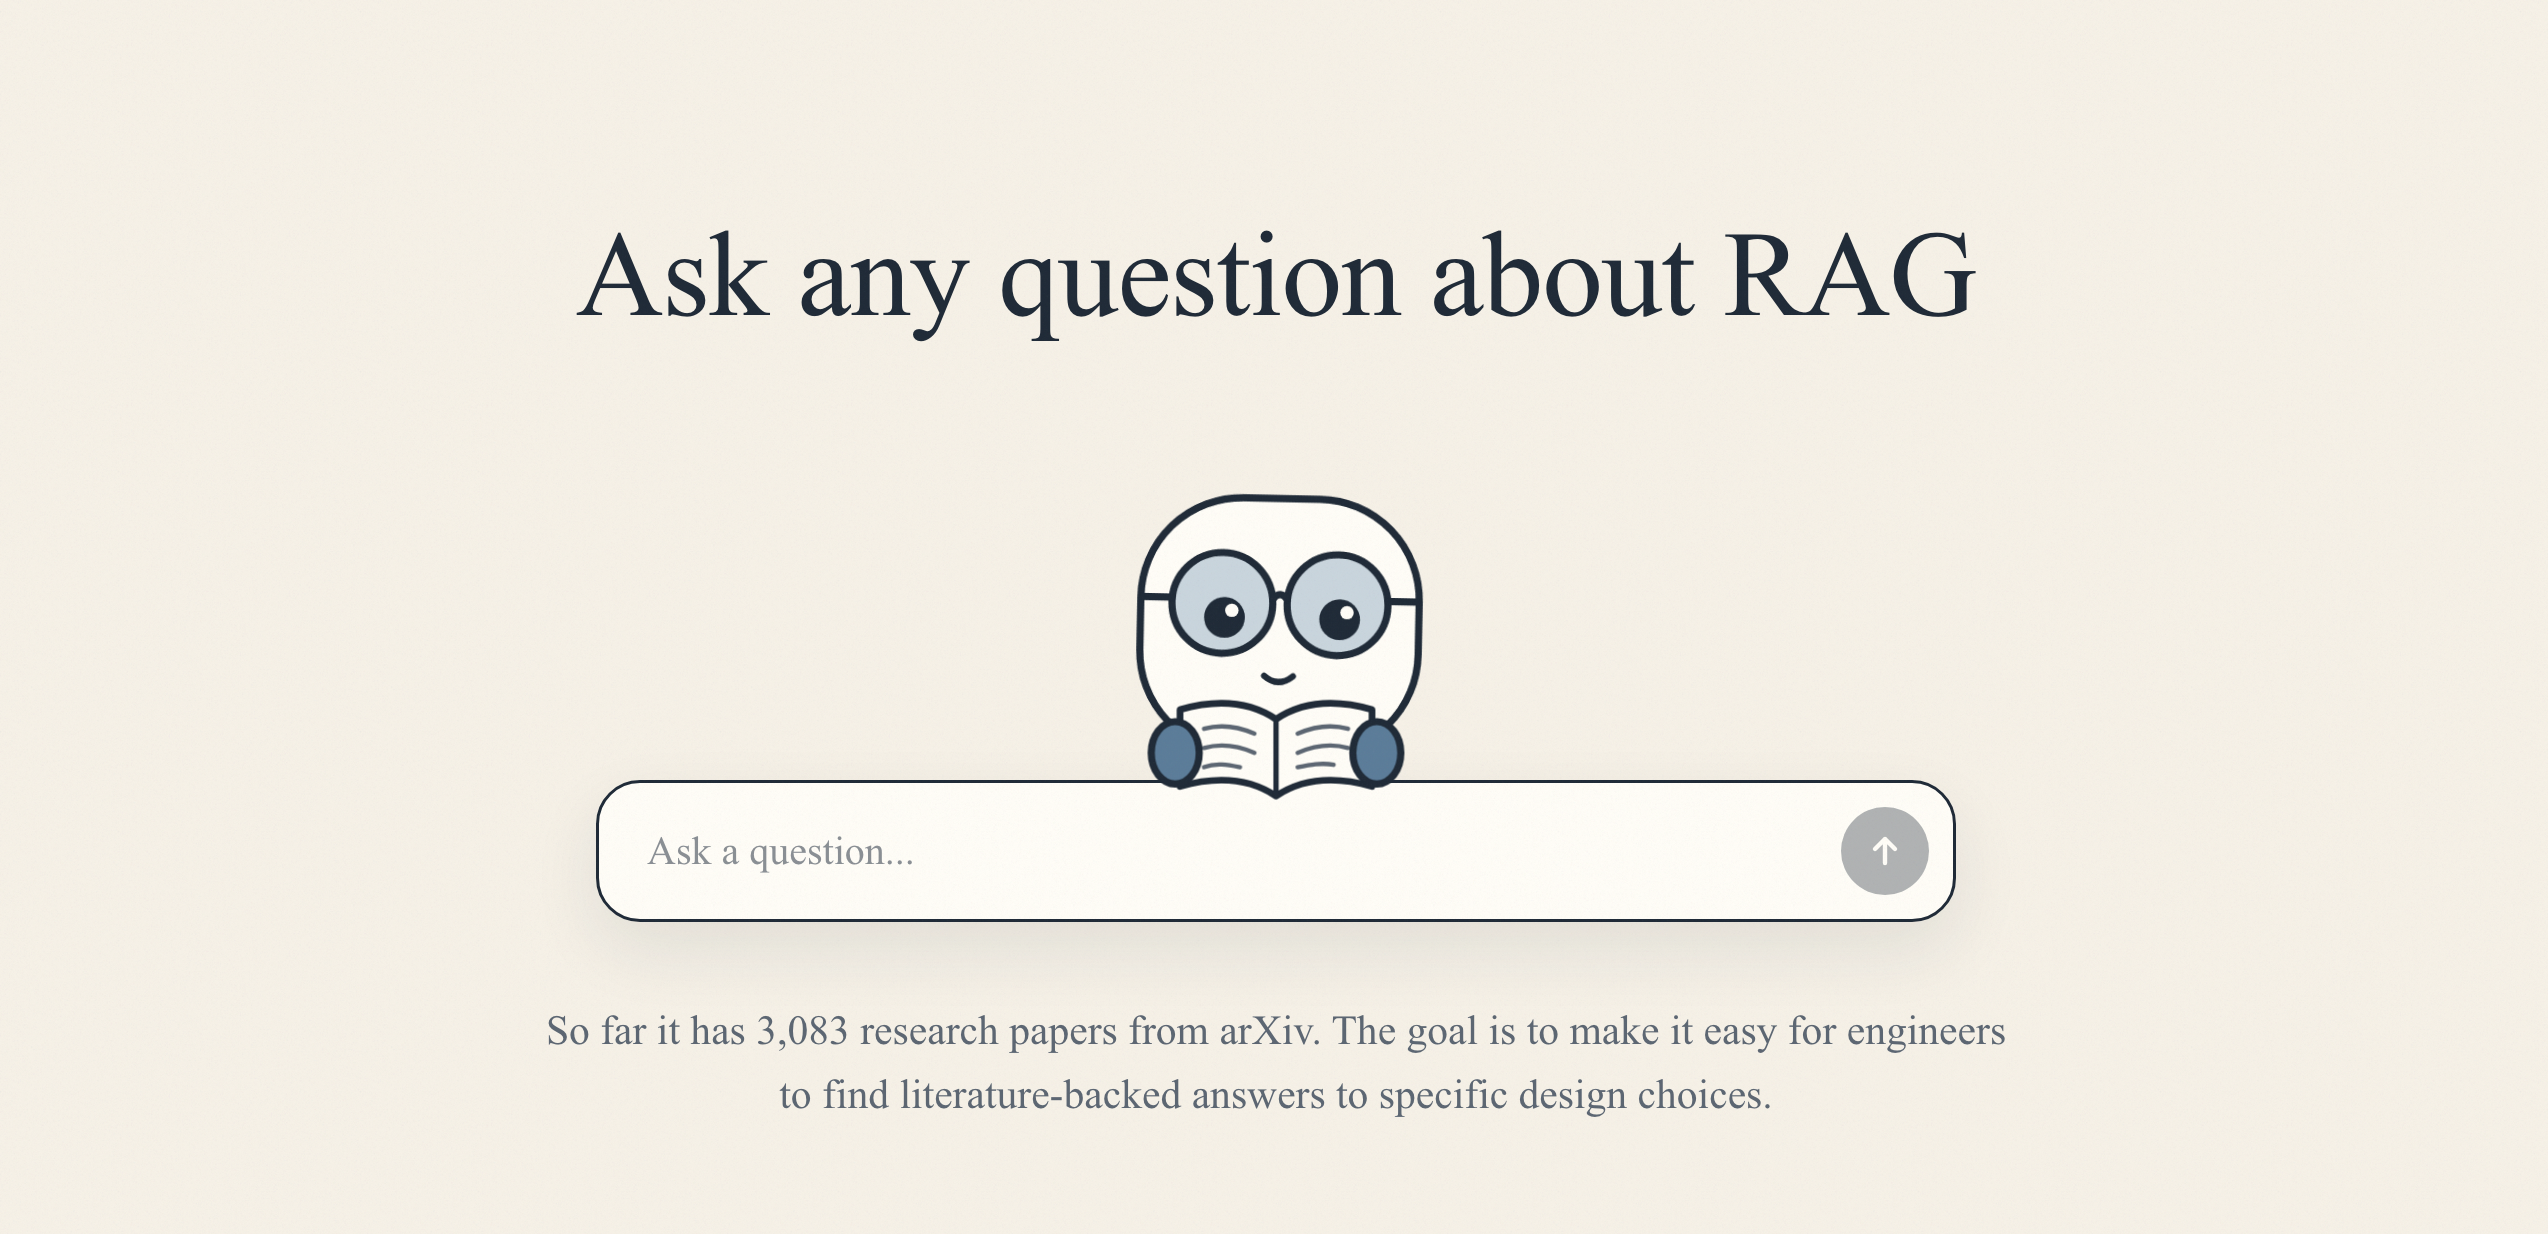
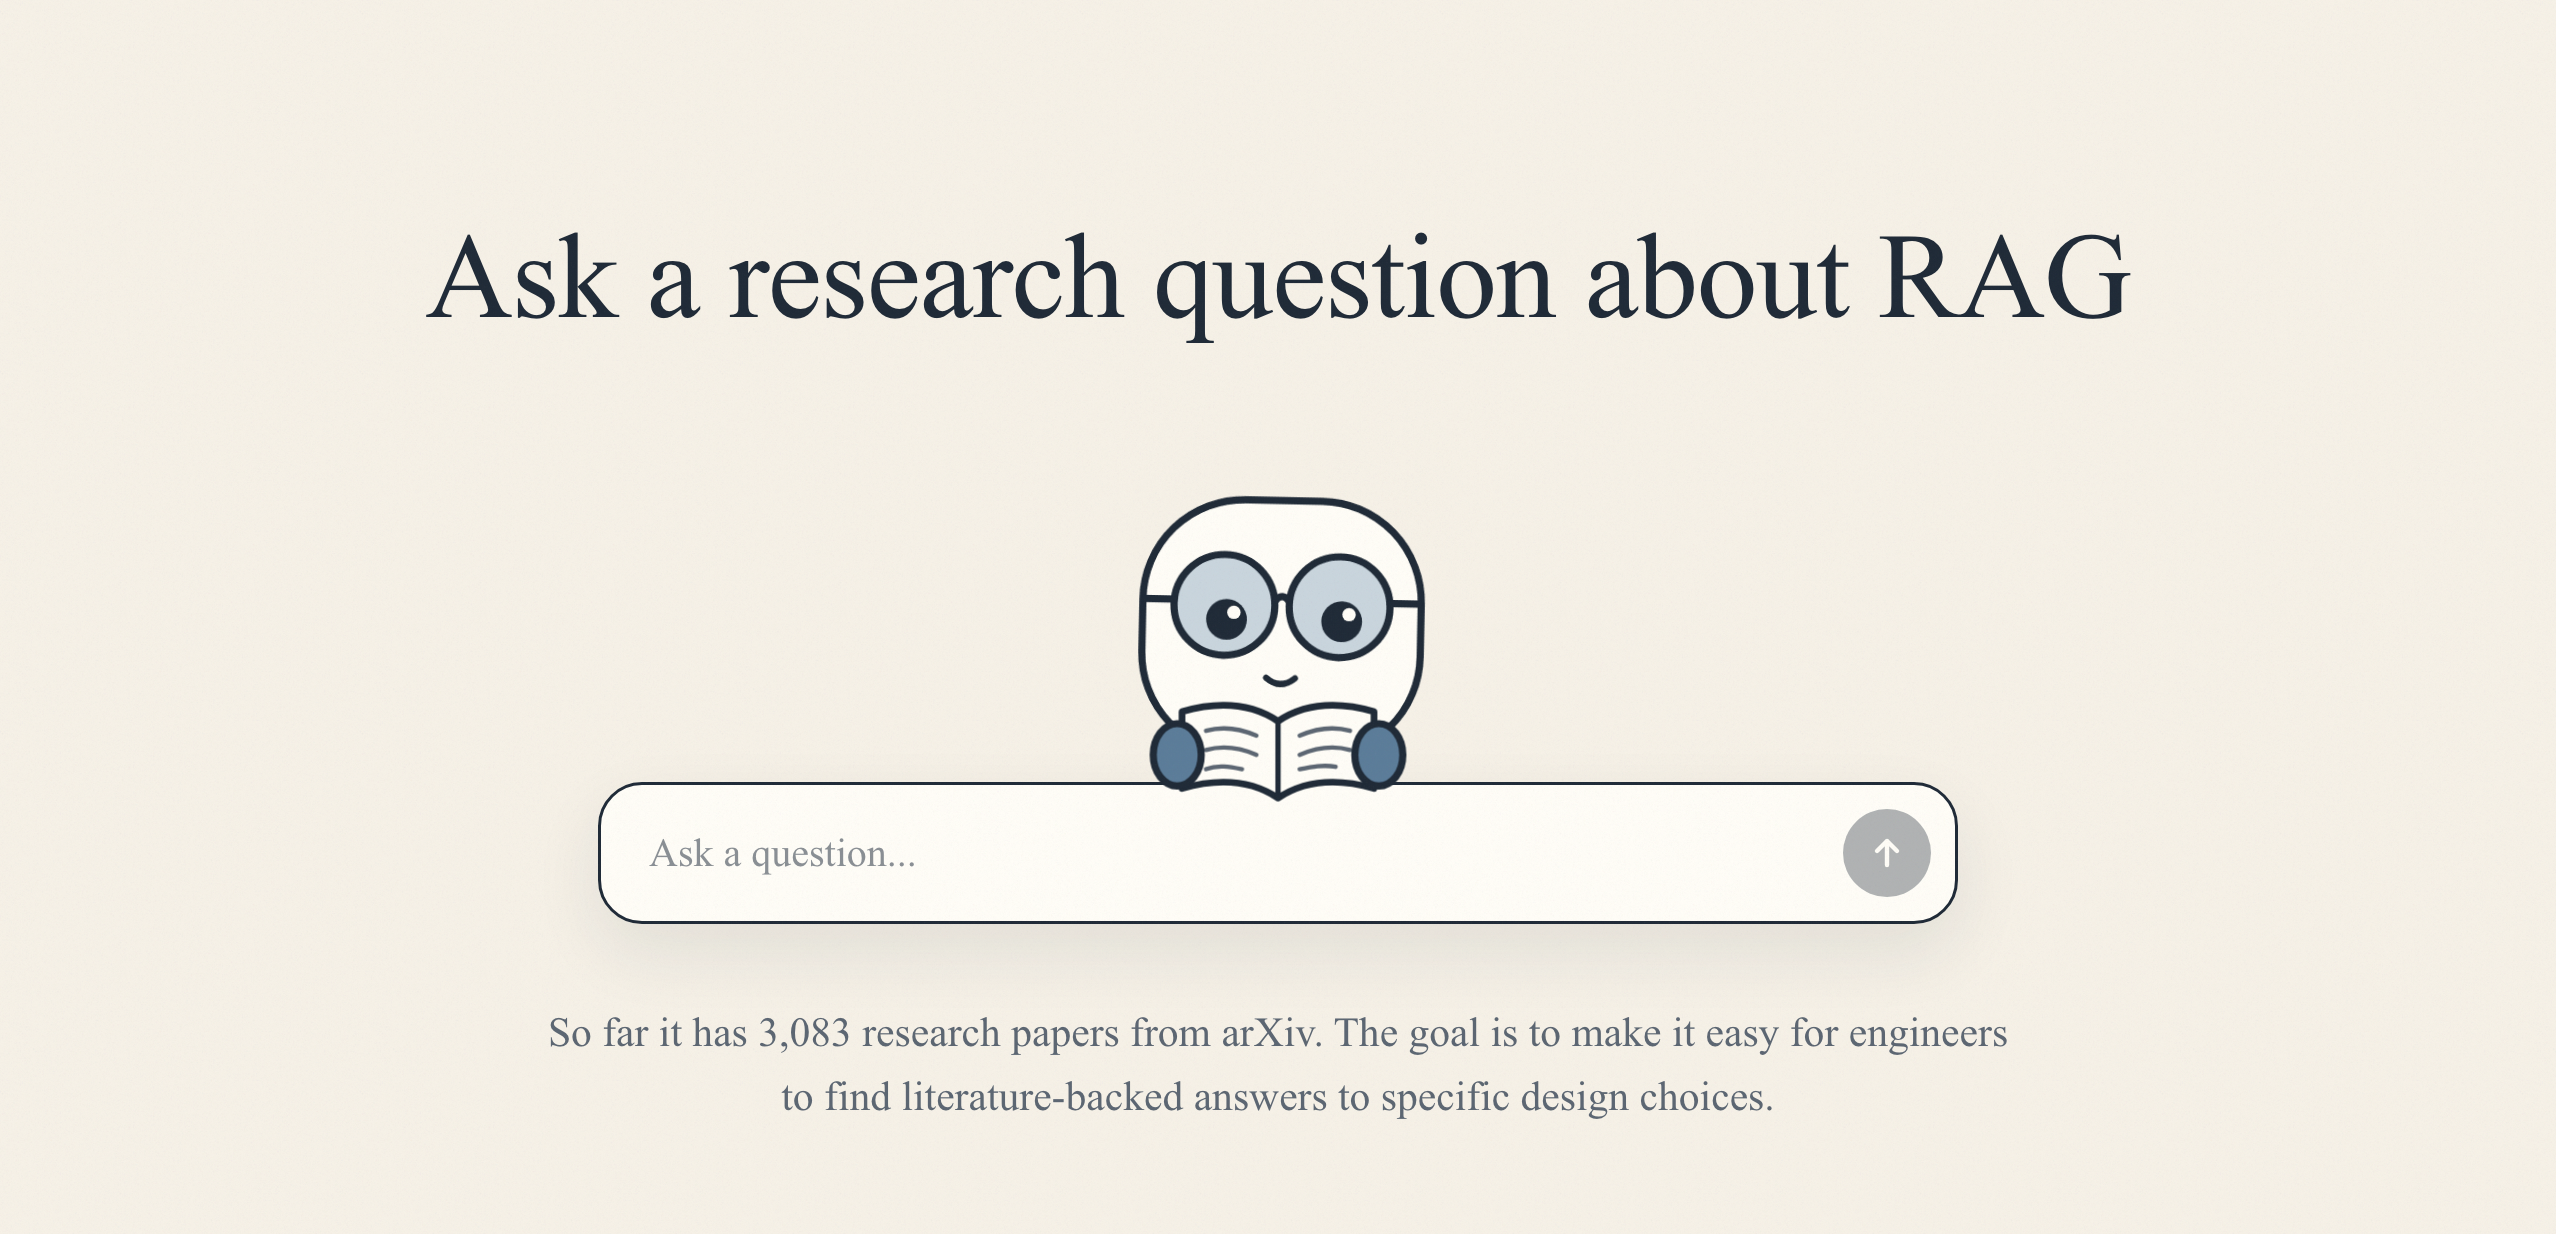
Change the title to focus on research questions

diff --git a/frontend/app/components/ChatUI.tsx b/frontend/app/components/ChatUI.tsx
@@ -177,7 +177,7 @@ export default function ChatUI() {
     return (
       <>
         <main className="hero">
-          <h1 className="rise d1">Ask any question about RAG</h1>
+          <h1 className="rise d1">Ask a research question about RAG</h1>
           <div className="seat rise d2">
             <RobotOnBox />
             <AskBox id="first-question" placeholder="Ask a question..." loading={loading} onAsk={ask} />
